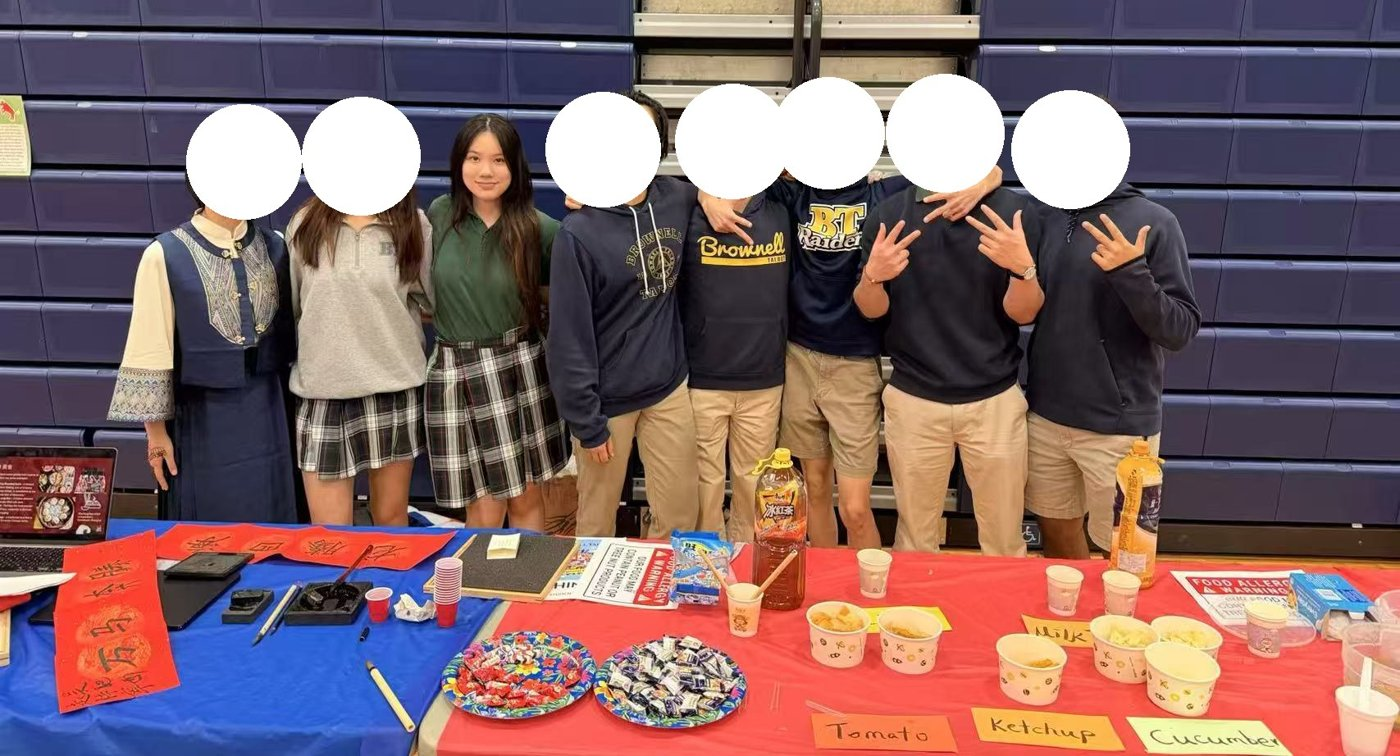
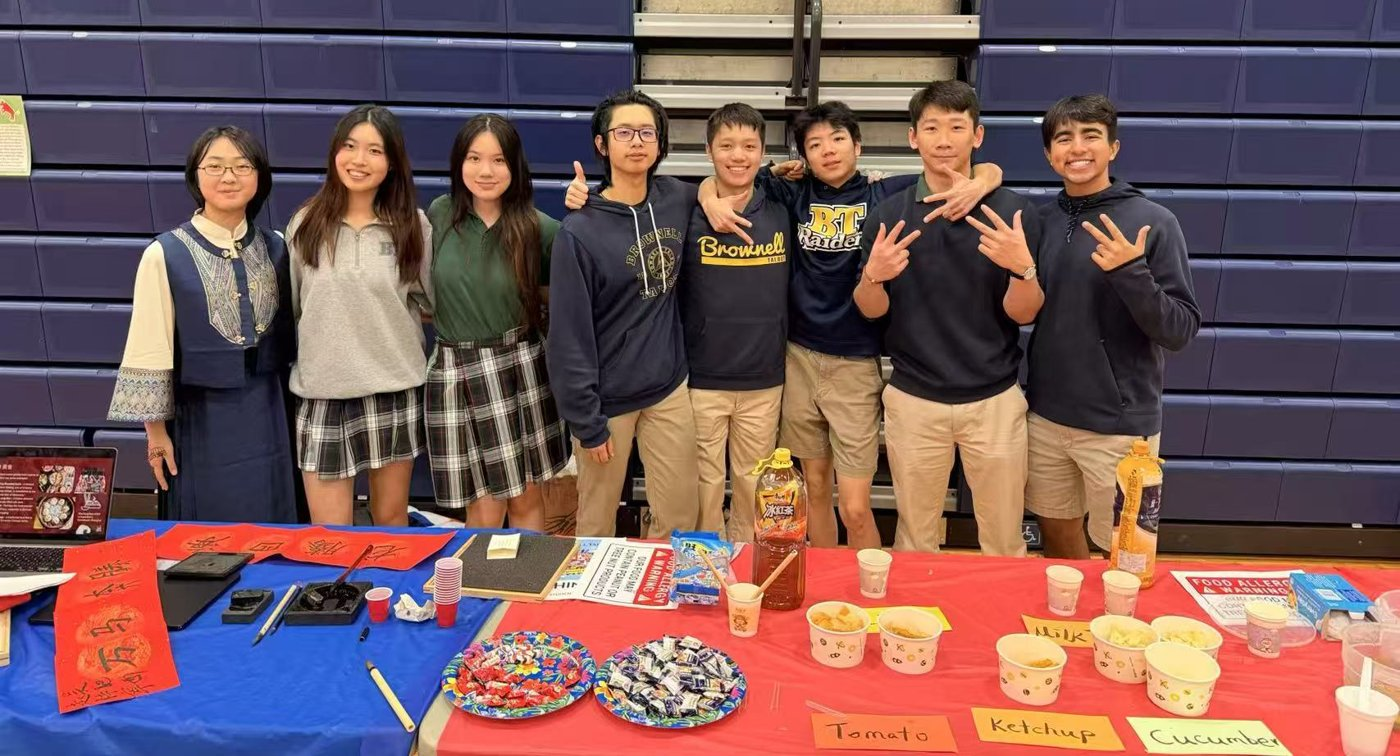
Use unmasked group photos
Claude-Session: https://claude.ai/code/session_011G8bQ2vGuVisZHXVonzxz8

Changed region(s): [[0.3686, 0.0913, 0.8293, 0.2738], [0.1229, 0.1217, 0.3071, 0.3042]]

diff --git a/index.html b/index.html
@@ -476,7 +476,7 @@ footer { display: flex; flex-wrap: wrap; justify-content: space-between; gap: 10
         <div class="count type">Grades 9–12</div>
       </div>
       <div class="grid">
-        <figure class="photo tilt-a span-7"><img src="img/nhts.jpg" alt="Four NHTS volunteers on a bench outside New Cassel; three faces covered with white circles for privacy, Sersi on the right" data-cap="Our first NHTS visit at New Cassel, Omaha"><figcaption>our first NHTS visit at New Cassel, Omaha · other faces hidden for privacy</figcaption></figure>
+        <figure class="photo tilt-a span-7"><img src="img/nhts.jpg" alt="Four NHTS volunteers giving thumbs up on a bench outside New Cassel, Sersi on the right" data-cap="Our first NHTS visit at New Cassel, Omaha"><figcaption>our first NHTS visit at New Cassel, Omaha</figcaption></figure>
         <article class="slip pin span-5">
           <div class="type">Grades 11–12 · Director of Social Media &amp; Core Volunteer</div>
           <h3>Nebraska High School Tech Support</h3>
@@ -597,7 +597,7 @@ footer { display: flex; flex-wrap: wrap; justify-content: space-between; gap: 10
             <figure class="photo tilt-b"><img src="img/comic_03.jpg" alt="Translated comic page close-up" data-cap="Translated page 3 · art © wallen, used with permission" loading="lazy"></figure>
           </div>
         </div>
-        <figure class="photo tilt-a span-7"><div class="deco" aria-hidden="true" style="width:80px;height:66px;top:-30px;right:-16px"><svg><use href="#d-butterfly"/></svg></div><img src="img/fair.jpg" alt="Students behind the Chinese culture table at the Multicultural Fair; Sersi in a green polo, everyone else's face covered with a white circle" data-cap="Multicultural Fair · our Chinese culture station (I'm in green)" loading="lazy"><figcaption>Multicultural Fair · I'm in green · other faces hidden for privacy</figcaption></figure>
+        <figure class="photo tilt-a span-7"><div class="deco" aria-hidden="true" style="width:80px;height:66px;top:-30px;right:-16px"><svg><use href="#d-butterfly"/></svg></div><img src="img/fair.jpg" alt="Students behind the Chinese culture table at the Multicultural Fair, Sersi in a green polo" data-cap="Multicultural Fair · our Chinese culture station (I'm in green)" loading="lazy"><figcaption>Multicultural Fair · our Chinese station (I'm in green)</figcaption></figure>
         <article class="slip pink-slip span-5">
           <div class="type">Grades 9–12 · Multicultural Fair</div>
           <h3>A Chinese culture station</h3>
